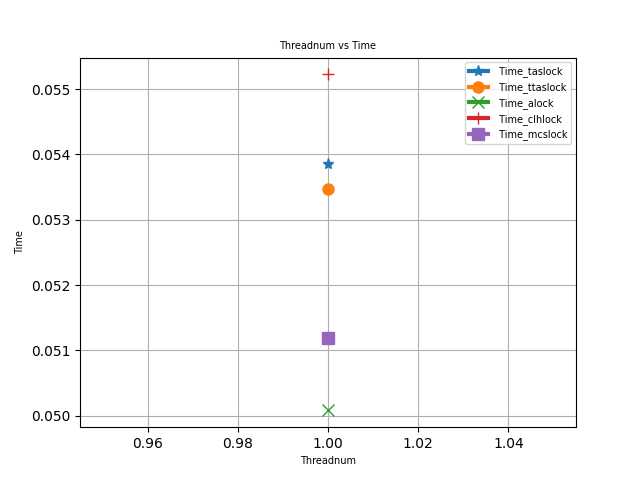
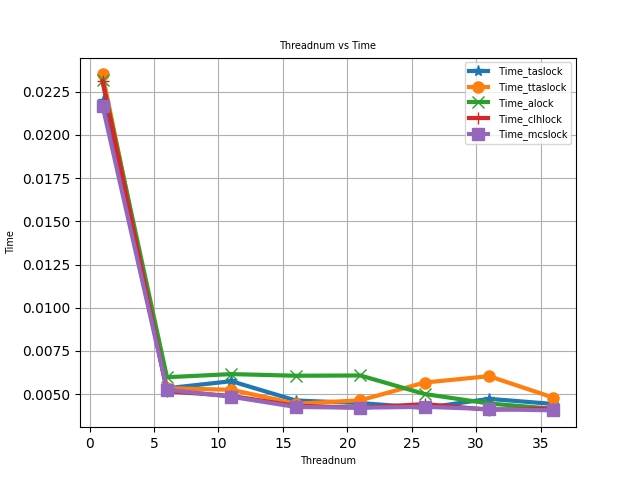
two problems needs to fixed , opposte graph issue checking by ensuring common locks as well as alock still have revrse trend after resolving local lock scope problem with

diff --git a/utills.cpp b/utills.cpp
@@ -7,13 +7,14 @@
 #include <atomic>
 #include <unistd.h>
 #include <functional>
-// #include"src/clhlock.cpp"
 using namespace std;
+
 
 template <class LockType> 
 void critical_section(int* size){
-    LockType* m = new LockType(size);
-
+   static LockType* m = new LockType(size);
+   cout<<m<<"\n";
+    
     for (int j = 0; j < 100000; j++){
         m->lock();
         //critical_section - start
@@ -28,20 +29,12 @@ void critical_section(int* size){
 
 
 
-double runtime_crticalsection(int threadnum = 0, function<void()> func = nullptr ){
-    
+double runtime_crticalsection(int threadnum, function<void()> func = nullptr ){ 
     vector<thread> threads;
-    auto start = chrono::high_resolution_clock::now(); // START
-    
-    for(int i = 1; i <= threadnum; i++) { 
-        threads.push_back(thread(func));
-        
-        }
-    for(auto& thread : threads) {
-        thread.join();
-        }
+    auto start = chrono::high_resolution_clock::now(); // START 
+    for(int i = 1; i <= threadnum; i++) {threads.push_back(thread(func));}
+    for(auto& thread : threads) {thread.join();}
     auto end = chrono::high_resolution_clock::now();
-
     chrono::duration<double> elapsed = end - start;// END
     return elapsed.count()/threadnum;
 }
@@ -51,12 +44,12 @@ void use_lock_and_write_to_csv(const string& file_name, const string& lock_name,
     string path = string("/mnt/c/COL818/Multi-Core-Programming/benchmarking") + "/" + file_name; 
     ofstream lock_latency_file(path);   
     lock_latency_file << "T, Time_" << lock_name << "\n";
+
     int threadnum = 1;
     while (threadnum <= thread_count) {
         double time_lock = runtime_crticalsection(threadnum,  bind(critical_section<LockType>, &threadnum)); 
         lock_latency_file << threadnum << "," << time_lock << "\n";
-        threadnum = threadnum + step;
-        
+        threadnum = threadnum + step;   
     }
 
     lock_latency_file.close();

diff --git a/main.cpp b/main.cpp
@@ -3,19 +3,18 @@
 #include"src/clhlock.cpp"
 #include"src/alock.cpp"
 #include"src/mcslock.cpp"
-
 #include"utills.cpp"
 
+
+static TASLock* m = nullptr;
 int main(){
    
-    int thread_count = 8;
+    int thread_count = 3;
     int step = 1;
-    use_lock_and_write_to_csv<TASLock>( "tas.csv", "taslock", step, thread_count);
-    use_lock_and_write_to_csv<TTASLock>("ttas.csv", "ttaslock", step, thread_count);
-    use_lock_and_write_to_csv<ALock>("alock.csv", "alock", step, thread_count);
+    // use_lock_and_write_to_csv<TASLock>( "tas.csv", "taslock", step, thread_count);
+    // use_lock_and_write_to_csv<TTASLock>("ttas.csv", "ttaslock", step, thread_count);
+    // use_lock_and_write_to_csv<ALock>("alock.csv", "alock", step, thread_count);
     use_lock_and_write_to_csv<CLHLock>("clh.csv", "clhlock", step, thread_count);
-    use_lock_and_write_to_csv<MCSLock>("mcs.csv", "mcslock", step, thread_count);
-    
-
+    // use_lock_and_write_to_csv<MCSLock>("mcs.csv", "mcslock", step, thread_count);
     return 0;
 }

diff --git a/mergecsv.py b/mergecsv.py
@@ -17,3 +17,4 @@ df.to_csv('locklatency.csv', index=False)
 df.reset_index().to_csv('benchmarking/locklatency.csv', index=False)
 
 
+
